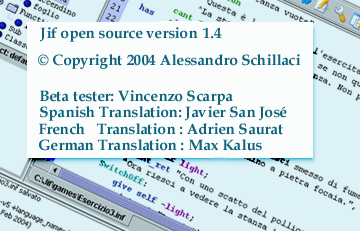
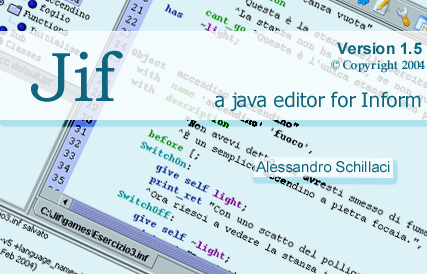
1.5 Version

diff --git a/Project/jFrame.java b/Project/jFrame.java
@@ -7455,9 +7455,13 @@ public class jFrame extends JFrame {
         JFileChooser chooser;
         if (lastDir!=null && !lastDir.equals("")){
               chooser  = new JFileChooser(lastDir);
+              chooser.setDialogTitle(java.util.ResourceBundle.getBundle("JIF").getString("MENUITEM_SAVEAS"));
+              chooser.setApproveButtonText(java.util.ResourceBundle.getBundle("JIF").getString("MESSAGE_SAVE"));
         }
         else {
              chooser = new JFileChooser(this.gamesDir);
+              chooser.setDialogTitle(java.util.ResourceBundle.getBundle("JIF").getString("MENUITEM_SAVEAS"));
+              chooser.setApproveButtonText(java.util.ResourceBundle.getBundle("JIF").getString("MESSAGE_SAVE"));
         }
 
         // Selezione Multipla

diff --git a/Project/Constants.java b/Project/Constants.java
@@ -41,7 +41,7 @@ public class Constants {
     /**
      * JIF Version
      */
-    public static final String JIFVERSION = "1.5 RC 20041218";
+    public static final String JIFVERSION = "1.5 Final 20041222";
 
     /**
      * File Separator, depending on which Operative System is executing JIF
